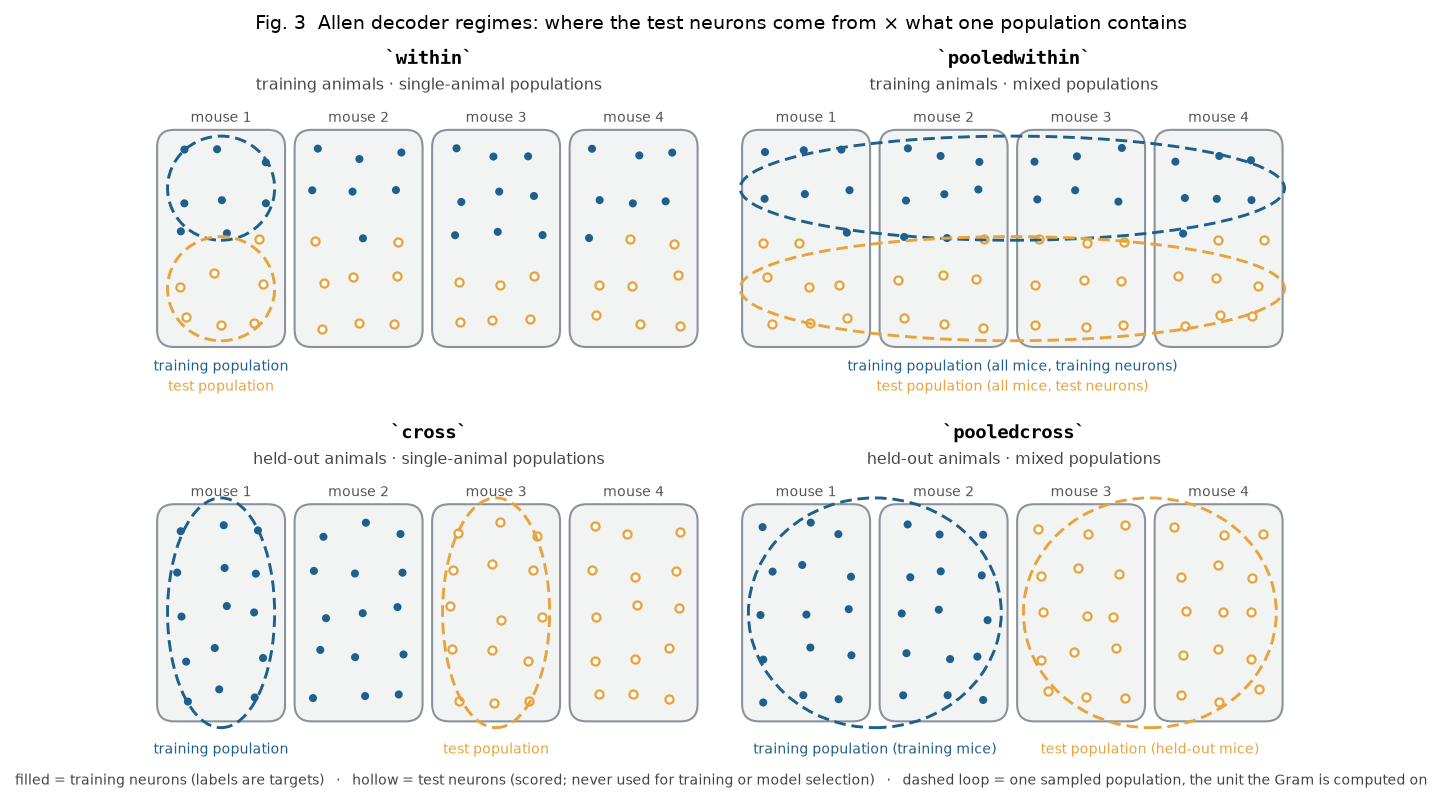
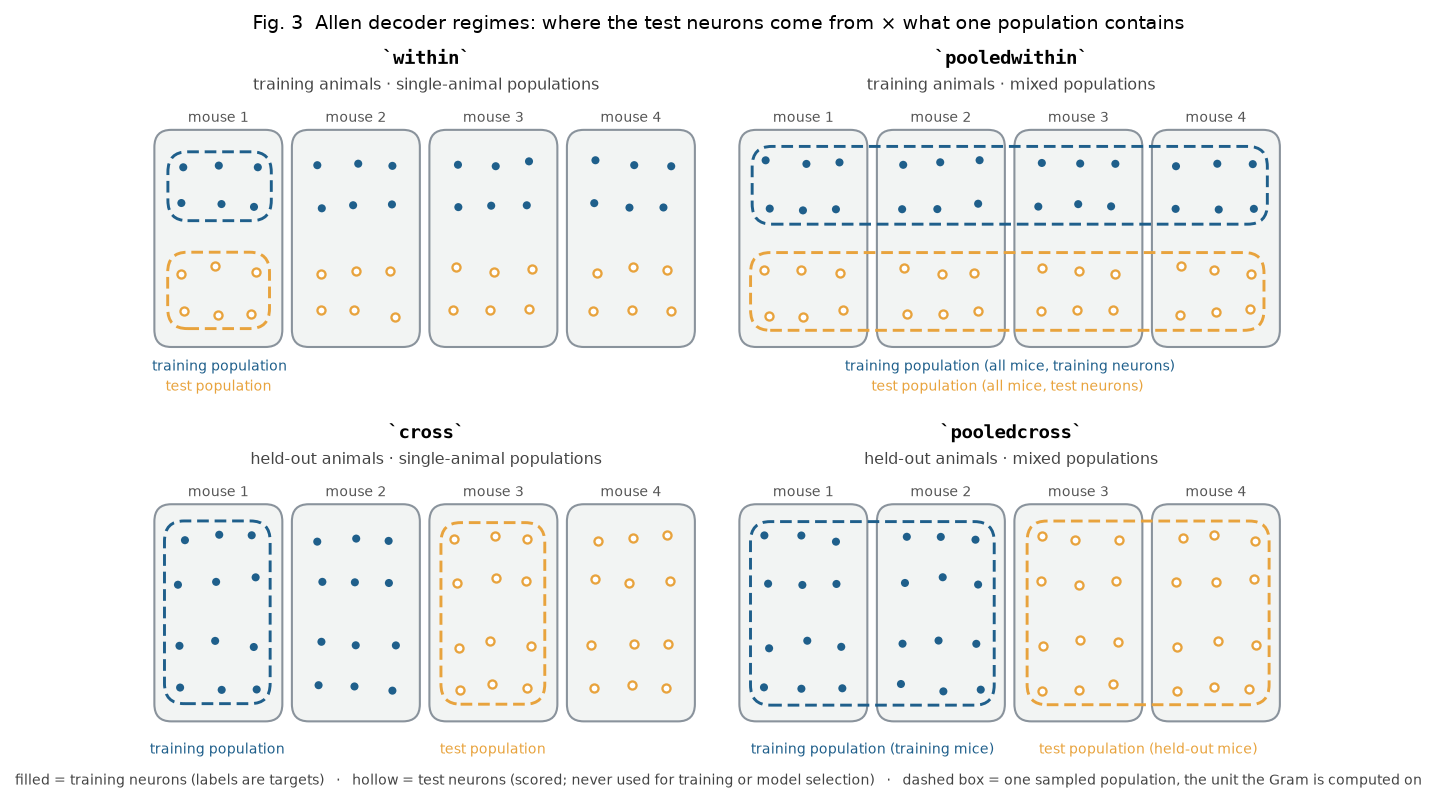
Figures: regime schematic outlines fitted to their populations, no train/test overlap
Claude-Session: https://claude.ai/code/session_01LETEXXu2w15URiHQ6at3NF

diff --git a/microns_ambiguity/paper_figures.py b/microns_ambiguity/paper_figures.py
@@ -113,48 +113,45 @@ def fig2():
 
 # ---------------------------------------------------------------- Fig 3: regime schematic
 def fig_regimes():
-    from matplotlib.patches import FancyBboxPatch, Ellipse
+    from matplotlib.patches import FancyBboxPatch
     rng = np.random.default_rng(5)
     fig, axes = plt.subplots(2, 2, figsize=(7.8, 5.2))
     TR, TE, MUTED = "#1f5f8b", "#e8a33d", "#8a939c"
     MX = [0.3, 2.75, 5.2, 7.65]; W = 2.2; Y0, Y1 = 1.2, 4.9            # four mice per panel
+    ROWS = [1.75, 2.5, 3.6, 4.35]                                       # two test rows (lower), two training rows (upper), with a gap
     cells = [((0, 0), "within", "training animals · single-animal populations", "train"),
              ((0, 1), "pooledwithin", "training animals · mixed populations", "train"),
              ((1, 0), "cross", "held-out animals · single-animal populations", "heldout"),
              ((1, 1), "pooledcross", "held-out animals · mixed populations", "heldout")]
     for (r, c), name, desc, split in cells:
-        ax = axes[r, c]; ax.set_xlim(0, 10.2); ax.set_ylim(0.1, 6.4); ax.axis("off")
+        ax = axes[r, c]; ax.set_xlim(0, 10.2); ax.set_ylim(0.1, 6.4); ax.axis("off"); P = {}
         for mi, x0 in enumerate(MX):
             ax.add_patch(FancyBboxPatch((x0, Y0), W, Y1 - Y0, boxstyle="round,pad=0.04,rounding_size=0.3", fc="#f2f4f3", ec=MUTED, lw=1))
             ax.text(x0 + W / 2, Y1 + 0.18, f"mouse {mi + 1}", ha="center", fontsize=6.8, color="#555")
-            gx, gy = np.meshgrid(np.linspace(x0 + 0.4, x0 + W - 0.4, 3), np.linspace(Y0 + 0.4, Y1 - 0.4, 5))
-            xy = np.c_[gx.ravel(), gy.ravel()] + rng.uniform(-0.13, 0.13, (15, 2))
-            if split == "train":
-                is_test = xy[:, 1] < (Y0 + Y1) / 2                    # each mouse halved: lower half test, upper half training
-            else:
-                is_test = np.full(15, mi >= 2)                        # mice 3 and 4 held out entirely
+            gx, gy = np.meshgrid(np.linspace(x0 + 0.45, x0 + W - 0.45, 3), ROWS)
+            xy = np.c_[gx.ravel(), gy.ravel()] + rng.uniform(-0.07, 0.07, (12, 2))
+            is_test = (xy[:, 1] < 3.05) if split == "train" else np.full(12, mi >= 2)
+            P[mi] = (xy, is_test)
             ax.scatter(xy[~is_test, 0], xy[~is_test, 1], s=15, c=TR, ec="none", zorder=3)
             ax.scatter(xy[is_test, 0], xy[is_test, 1], s=15, fc="white", ec=TE, lw=1.1, zorder=3)
-        def loop(x_from, x_to, y_from, y_to, col, lab, lab_y, lab_x=None):
-            cx, cy = (x_from + x_to) / 2, (y_from + y_to) / 2
-            ax.add_patch(Ellipse((cx, cy), (x_to - x_from) * 1.06, (y_to - y_from) * 1.25, fill=False, ec=col, lw=1.4, ls=(0, (4, 2)), zorder=4))
-            ax.text(cx if lab_x is None else lab_x, lab_y, lab, ha="center", fontsize=6.8, color=col)
-        ymid = (Y0 + Y1) / 2; up, lo = (ymid + 0.15, Y1 - 0.25), (Y0 + 0.25, ymid - 0.15)
+        def loop(pts, col, lab, lab_y):
+            pts = np.concatenate(pts); pad = 0.22
+            x0, y0 = pts.min(0) - pad; x1, y1 = pts.max(0) + pad
+            ax.add_patch(FancyBboxPatch((x0, y0), x1 - x0, y1 - y0, boxstyle="round,pad=0.02,rounding_size=0.35", fill=False, ec=col, lw=1.4, ls=(0, (4, 2)), zorder=4))
+            ax.text((x0 + x1) / 2, lab_y, lab, ha="center", fontsize=6.8, color=col)
+        tr = lambda m: P[m][0][~P[m][1]]; te = lambda m: P[m][0][P[m][1]]
         if name == "within":
-            loop(MX[0] + 0.2, MX[0] + W - 0.2, *up, TR, "training population", 0.75)
-            loop(MX[0] + 0.2, MX[0] + W - 0.2, *lo, TE, "test population", 0.4)
+            loop([tr(0)], TR, "training population", 0.75); loop([te(0)], TE, "test population", 0.4)
         elif name == "pooledwithin":
-            loop(MX[0] + 0.2, MX[3] + W - 0.2, *up, TR, "training population (all mice, training neurons)", 0.75)
-            loop(MX[0] + 0.2, MX[3] + W - 0.2, *lo, TE, "test population (all mice, test neurons)", 0.4)
+            loop([tr(m) for m in range(4)], TR, "training population (all mice, training neurons)", 0.75)
+            loop([te(m) for m in range(4)], TE, "test population (all mice, test neurons)", 0.4)
         elif name == "cross":
-            loop(MX[0] + 0.2, MX[0] + W - 0.2, Y0 + 0.25, Y1 - 0.25, TR, "training population", 0.6)
-            loop(MX[2] + 0.2, MX[2] + W - 0.2, Y0 + 0.25, Y1 - 0.25, TE, "test population", 0.6)
+            loop([tr(0)], TR, "training population", 0.6); loop([te(2)], TE, "test population", 0.6)
         else:
-            loop(MX[0] + 0.2, MX[1] + W - 0.2, Y0 + 0.25, Y1 - 0.25, TR, "training population (training mice)", 0.6)
-            loop(MX[2] + 0.2, MX[3] + W - 0.2, Y0 + 0.25, Y1 - 0.25, TE, "test population (held-out mice)", 0.6)
+            loop([tr(0), tr(1)], TR, "training population (training mice)", 0.6); loop([te(2), te(3)], TE, "test population (held-out mice)", 0.6)
         ax.text(5.1, 6.35, f"`{name}`", ha="center", fontsize=9, family="monospace", weight="bold", va="top")
         ax.text(5.1, 5.85, desc, ha="center", fontsize=7.5, color="#444", va="top")
-    fig.text(0.5, 0.005, "filled = training neurons (labels are targets)   ·   hollow = test neurons (scored; never used for training or model selection)   ·   dashed loop = one sampled population, the unit the Gram is computed on", ha="center", fontsize=6.8, color="#444")
+    fig.text(0.5, 0.005, "filled = training neurons (labels are targets)   ·   hollow = test neurons (scored; never used for training or model selection)   ·   dashed box = one sampled population, the unit the Gram is computed on", ha="center", fontsize=6.8, color="#444")
     fig.suptitle("Fig. 3  Allen decoder regimes: where the test neurons come from × what one population contains", fontsize=9)
     save(fig, "fig3_regimes", "The four Allen decoder regimes",
          "Two independent choices define a run. The split (rows) decides where test neurons come from: each animal's cells halved into training and test neurons "
